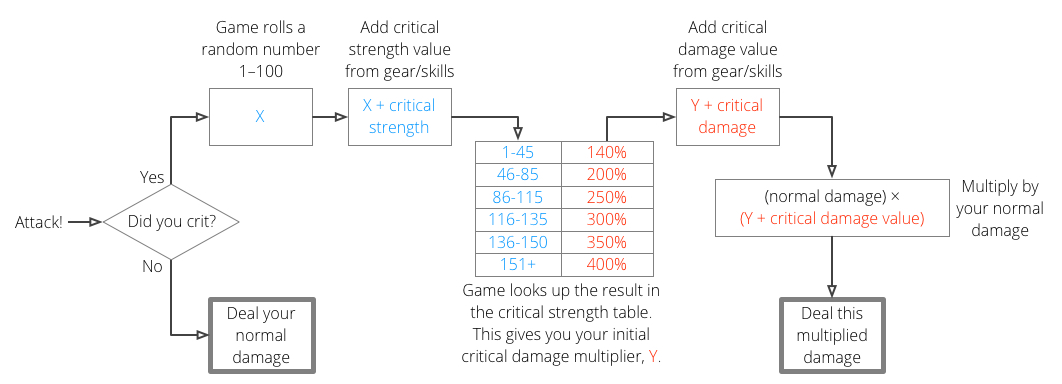
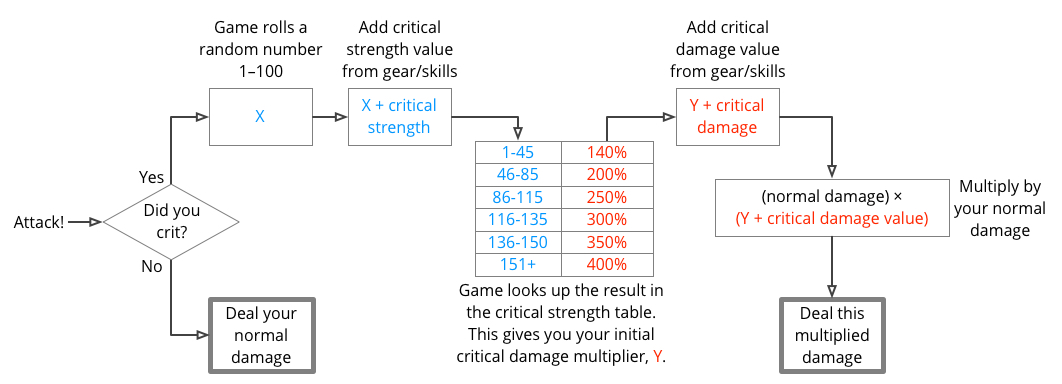
Correcting font-embed issues in svg file.

diff --git a/custom.css b/custom.css
@@ -1,5 +1,5 @@
 body {
-  font-family: 'Open Sans Light', 'Open Sans', sans-serif;
+  font-family: 'Open Sans', sans-serif;
   font-weight: 300;
 }
 
